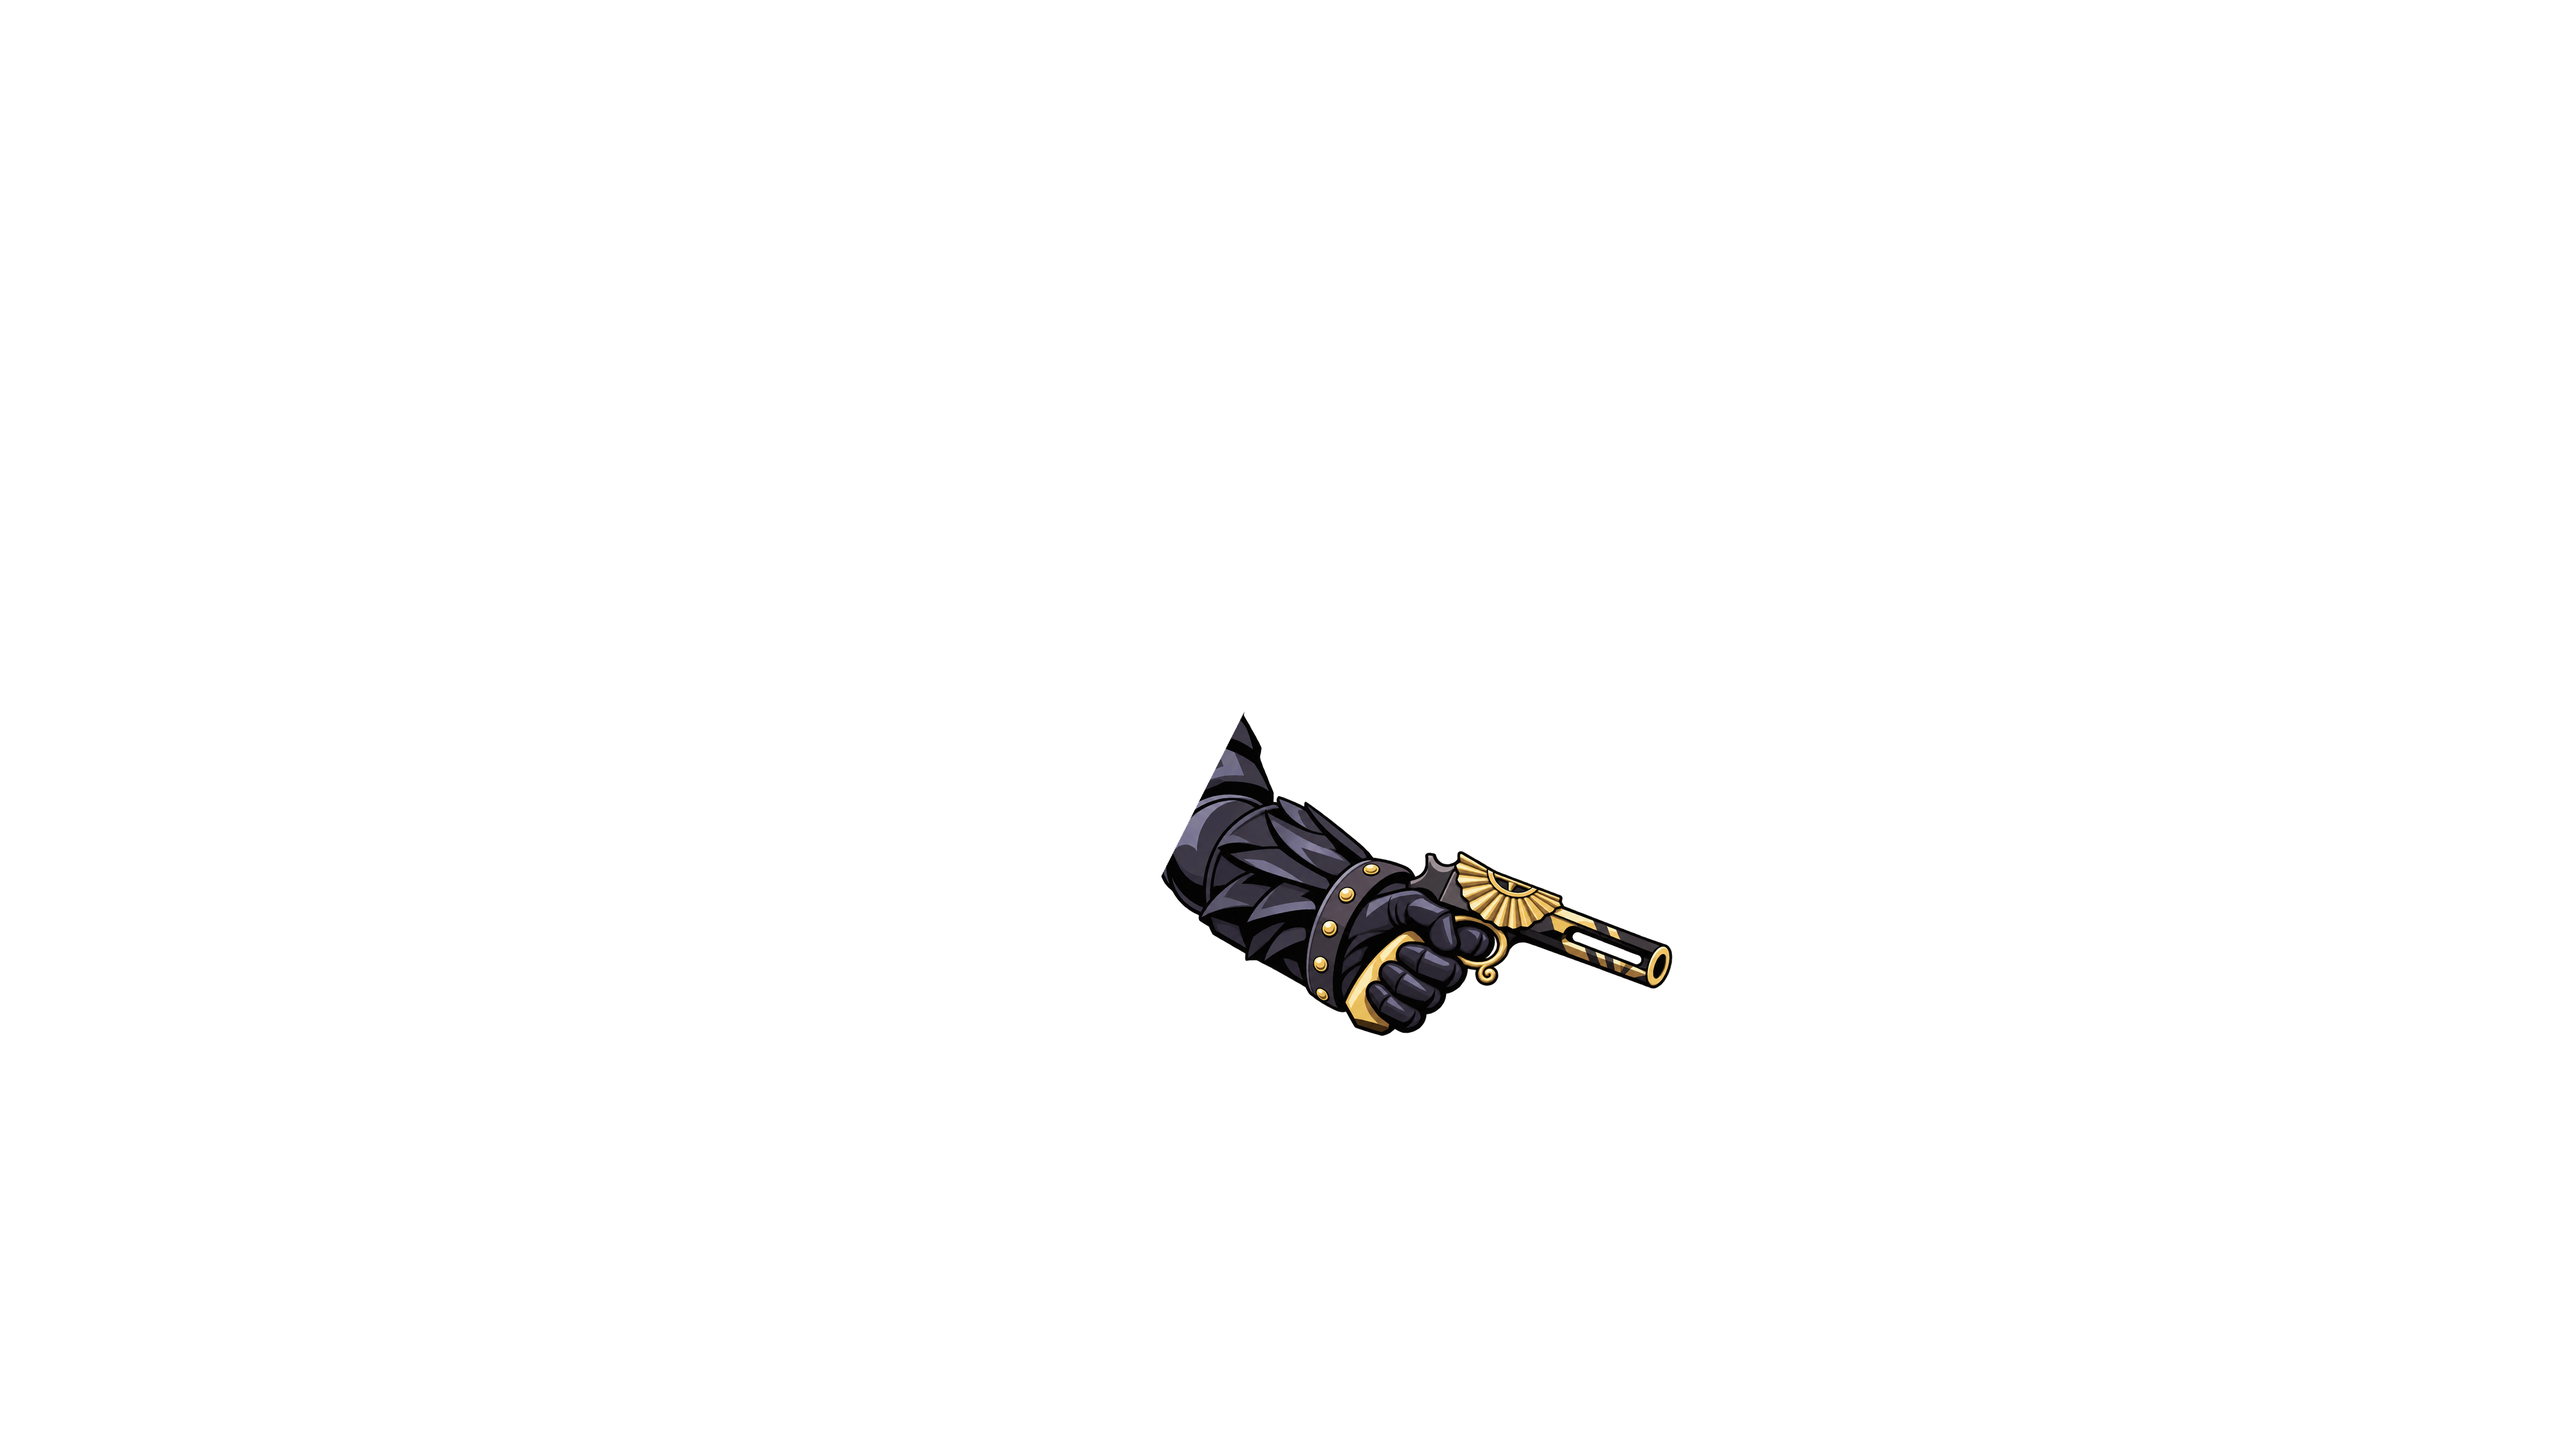
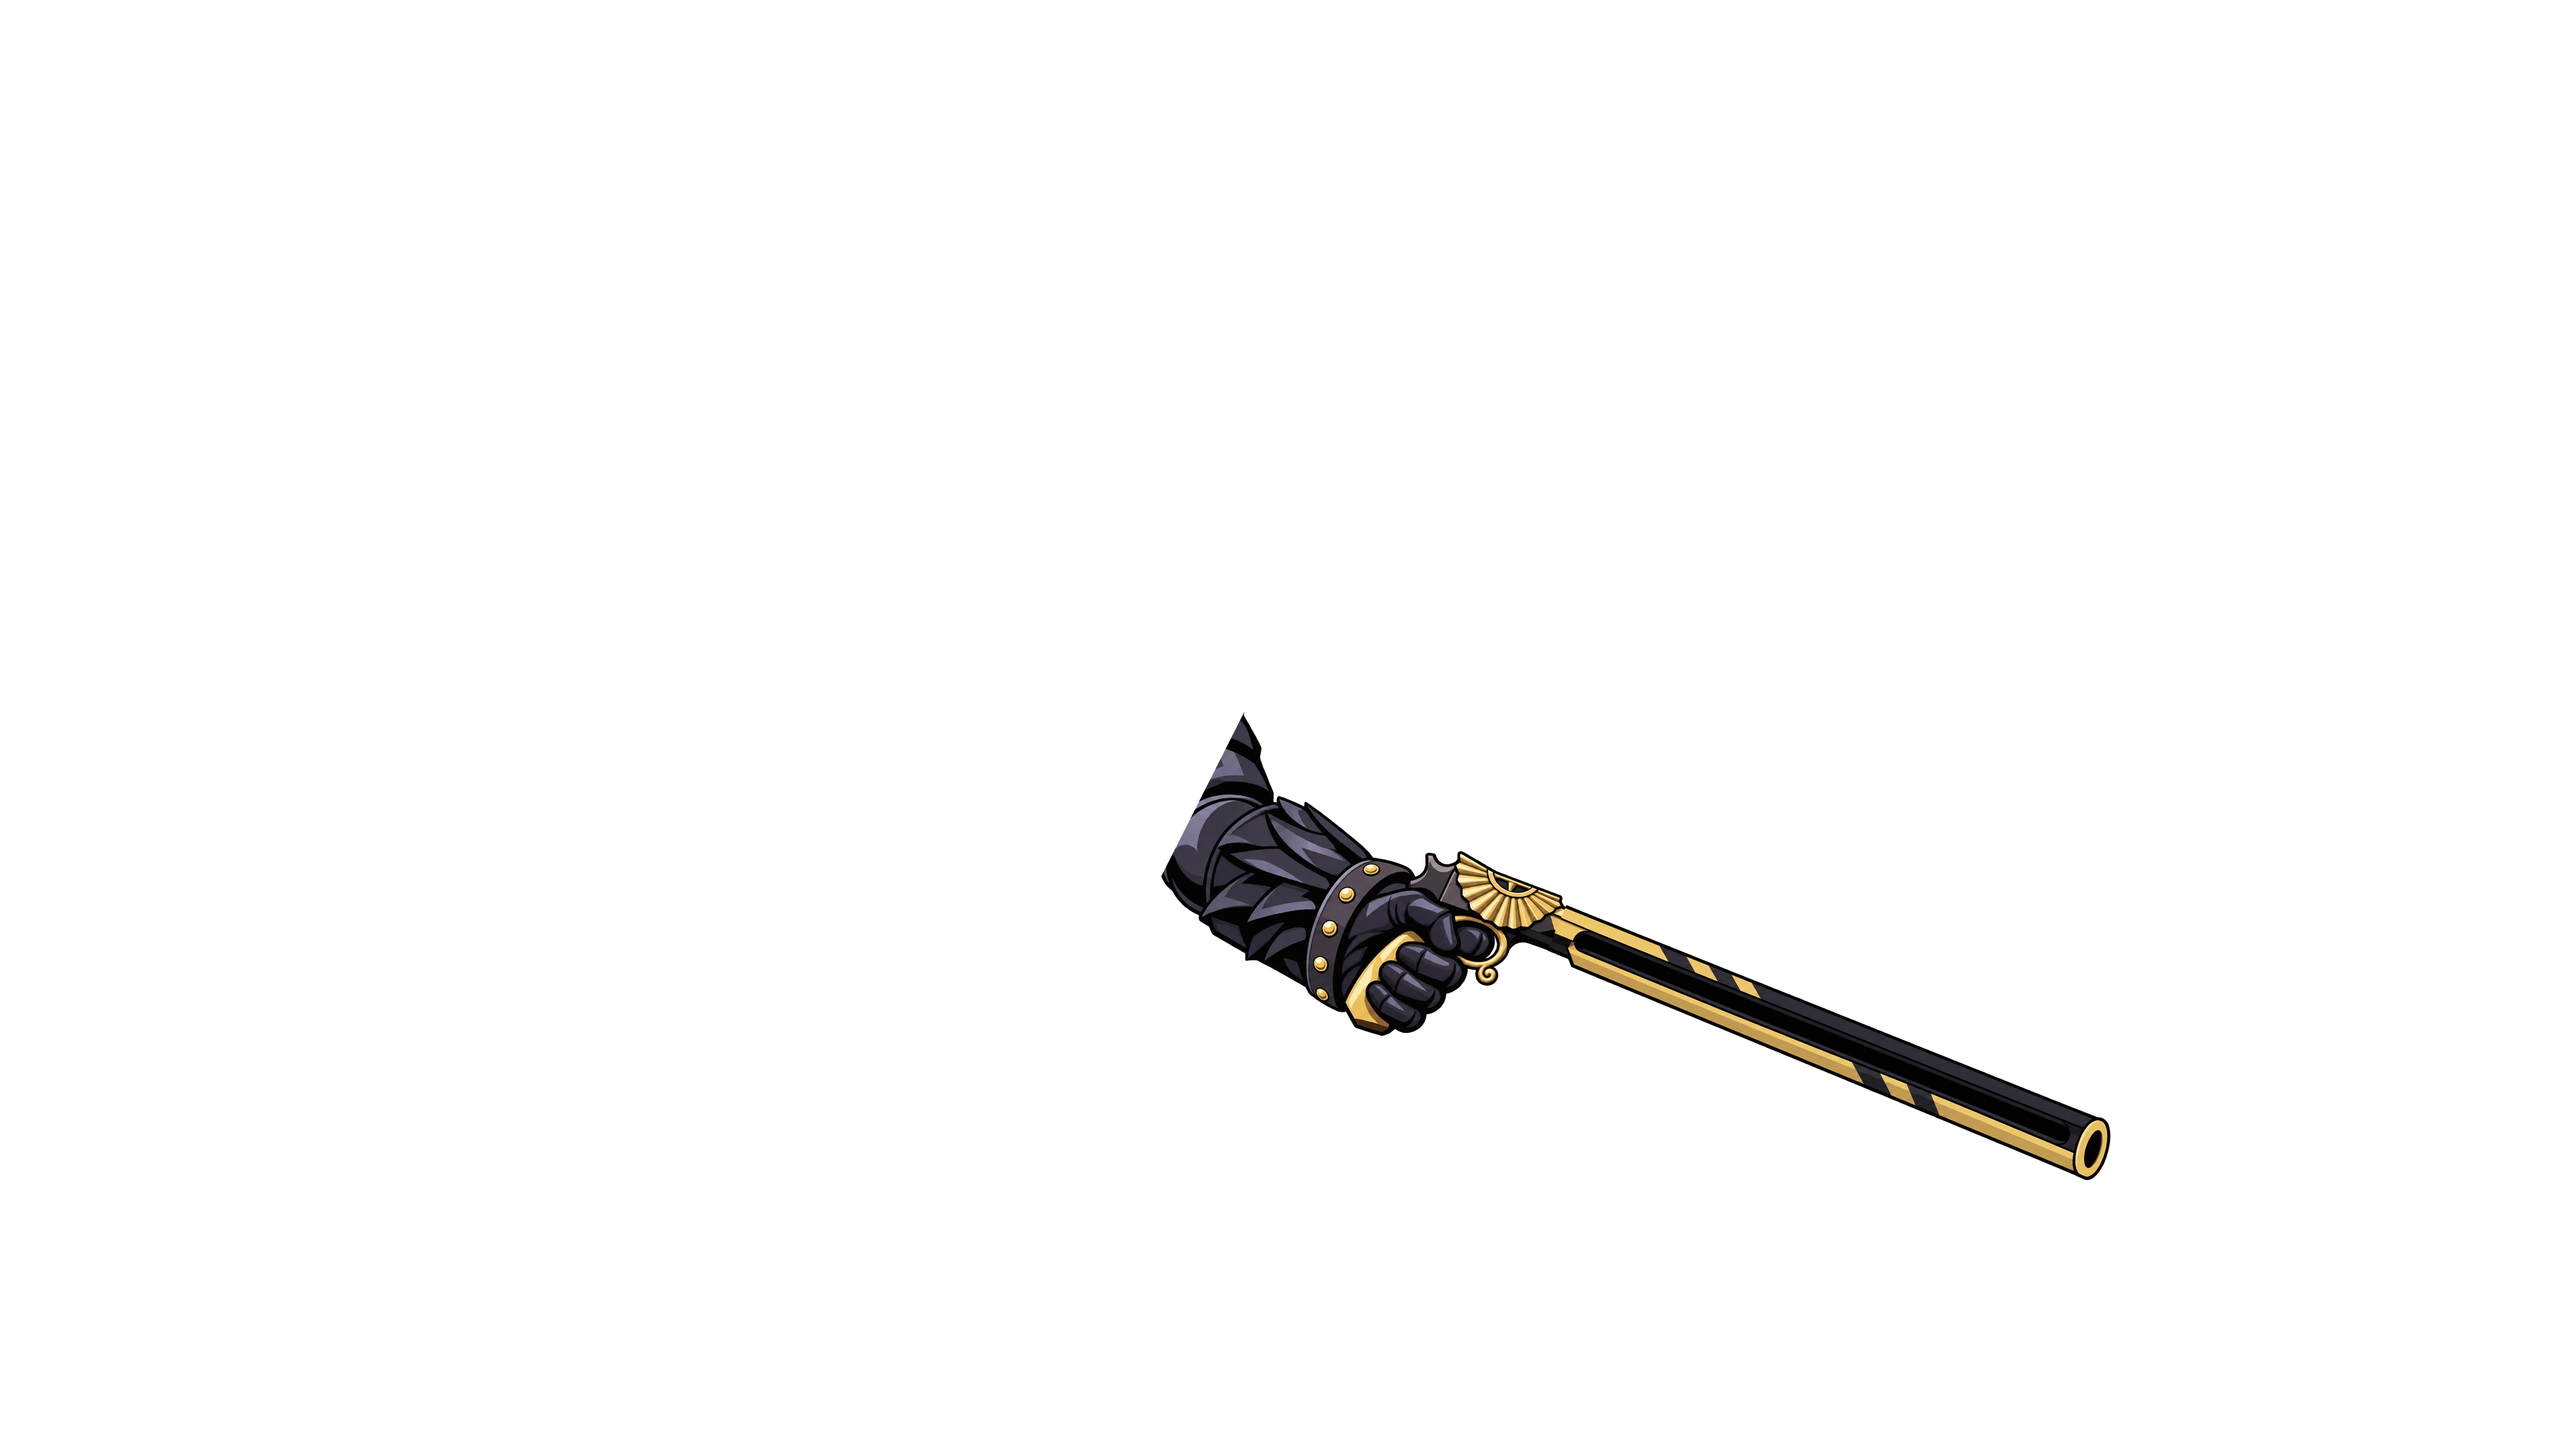
art: Satanael v10 gun barrel lengthened (about 60% of the original long gun)

Changed region(s): [[0.5911, 0.62, 0.84, 0.837]]

diff --git a/art/p5/fx/v4/satanael/layers_v10/README_gun_len_v10.md b/art/p5/fx/v4/satanael/layers_v10/README_gun_len_v10.md
@@ -1,0 +1,21 @@
+撒旦耶尔 v10 枪管长度修订报告
+
+分支：claude/epic-archimedes-m9an69；先 fetch + merge --ff-only，基于 765ea91d。
+用途：杀戮尖塔 2 P5Joker Mod 的二维虚拟角色与转枪动画贴图。使用内置 image_gen，仅局部重画枪管；未改 Mod 代码、编译、启动游戏或使用 Computer Use。
+
+修改：arm_fore_gun.png、gun.png、gun_short_side.png、layers.json；新增 check_gun_len_v10.png 与此说明。
+按原版长枪约六成的目标接长，并略加粗黑金轨道式枪管，枪口保留明显金属环。原有金色扇形装饰、握柄、拳头、护腕和手臂保留。
+
+量得持枪图中的枪管从接长起点到枪口约 1218px；从握柄至枪口约 1438px，拳宽估计 320px，约为拳宽 4.49 倍，符合文档的 4～5 倍目标。枪轴仍朝右下，测得约 22.4°。
+新 muzzle：(4391,2403)。gun_guard：(3017,1889)、spin_finger：(3297,2004)，后两者位置未变。清单中原有的转枪偏移数组意外含 4 项，已按这两个关节点恢复为二维向量 (280,115)。
+
+保护核对：持枪图的枪管蒙版之外，RGBA 像素变化为 0；手／腕区域另作逐像素核对，完全相同。独立 gun.png 的枪管蒙版之外，RGBA 像素变化为 0。
+arm_upper、arm_fore_open、finger_tip、body、head、eyes_glow、三组翼层，以及历史检查图的文件 SHA256 均未改变。
+
+画布：两个动画图层保持 5400×3000 RGBA。独立 gun_short_side.png 为容纳加长枪管，将画布从 1600×800 向右扩展至 3400×800；x<900 的原握柄、护圈和扇形装饰像素完全保留，没有缩小整枪。
+
+原生分辨率：持枪枪管补图 1774×887，仅缩小到 1700×850 后注册。独立侧面枪管由两张原生 1254×1254 补图拼接，各先缩小到 1250×1250，再向下压缩到统一截面进行边缘注册；重叠 100px。转枪图从新侧面枪管缩小后放入原坐标。未放大生成图充数，拉长的布局草图仅用于参考，不进入交付像素。
+全部资源保留真透明 alpha，已清理生成补图的低 alpha 残点；没有白底或绿幕。
+
+检查：check_gun_len_v10.png 含 fix2 短枪／加长枪对比、前臂上翻 +40° 后坐叠图和局部放大。枪管前端和金属环完整在画布内，手臂与身体位置保持。拼接处仍可见局部色块接线，造型与接缝交由用户和 Claude 视觉审核；不视为游戏实机验收。
+每个区域只生成一次，没有因审美判断追加重画。生成提示全文在本机 outputs/gun_len_v10/prompts.json，尺寸、源文件 SHA256 和像素核对结果在 evidence.json。
